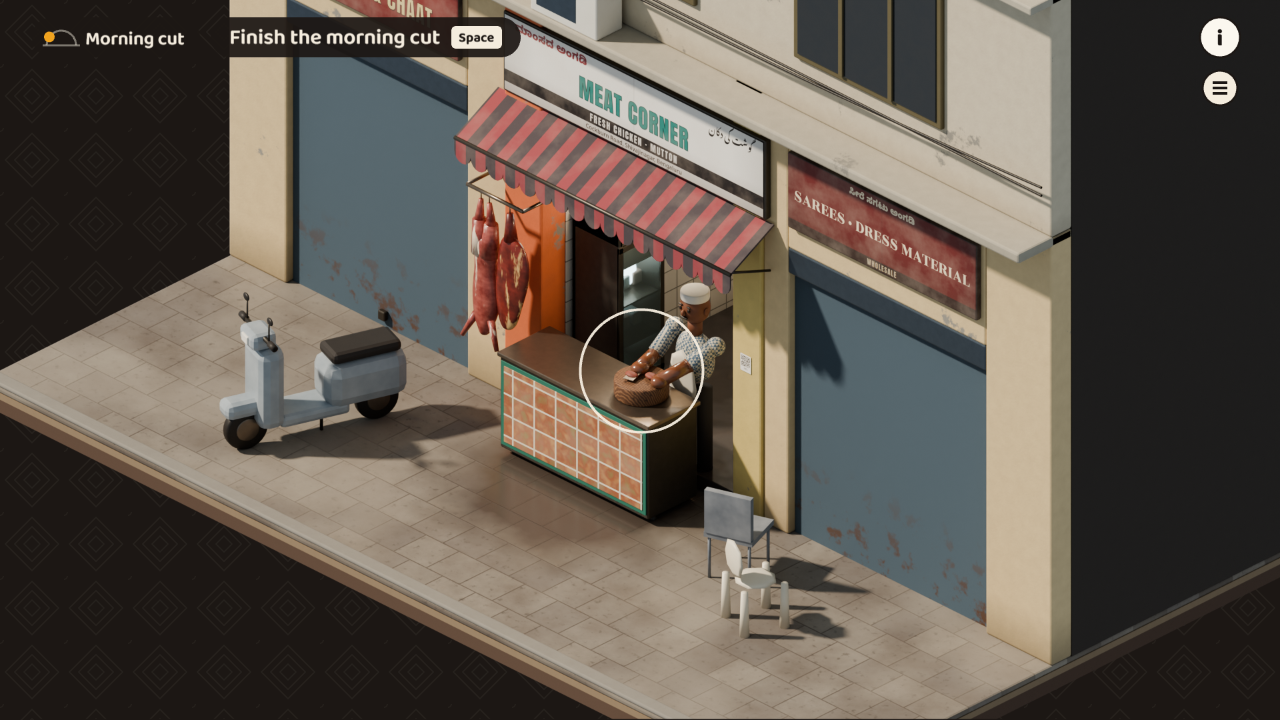
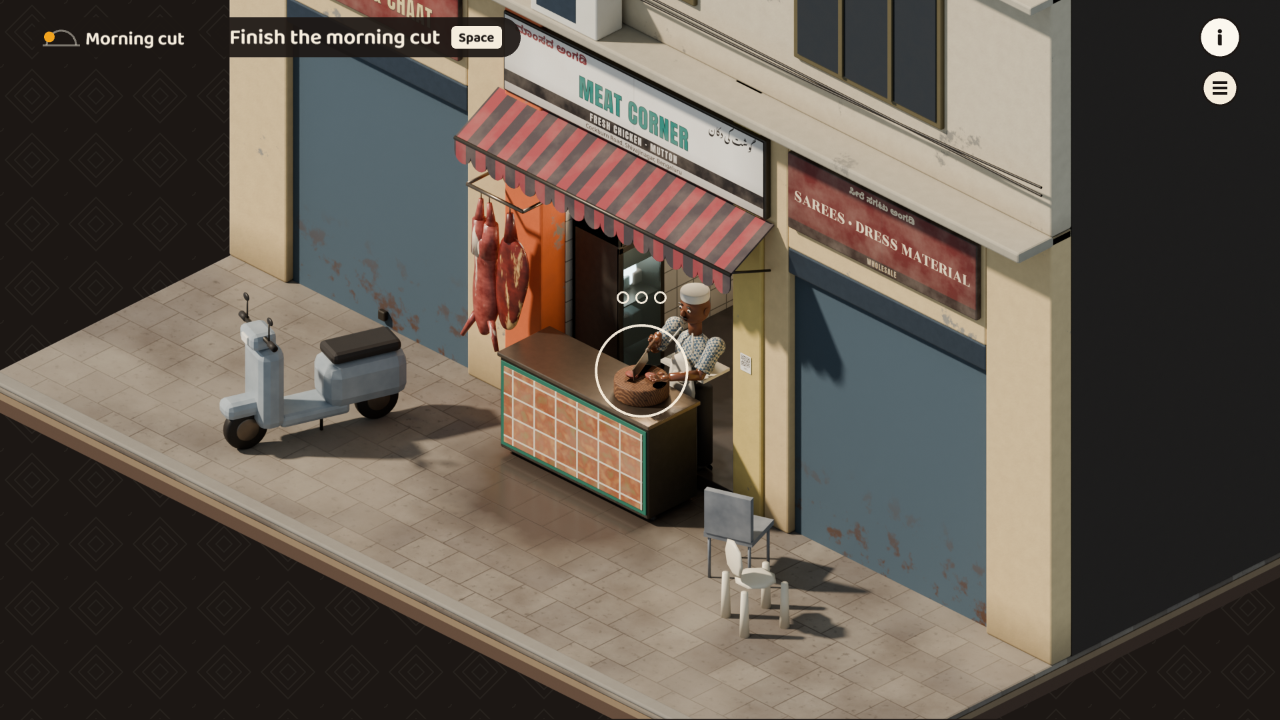
08: full playthrough (13 beats, no console errors), review/full/

Changed region(s): [[0.4375, 0.3972, 0.5625, 0.6111]]

diff --git a/review/full/timing.md b/review/full/timing.md
@@ -4,16 +4,18 @@ Made by `node tools/shoot.mjs full` (generic driver: Space, then → held 0.9 s,
 
 | Beat | Tag at start | Seconds |
 |---|---|---|
-| 01-run1-s01 | — | 3.9 |
-| 02-run1-s02 | −₹5 | 14.5 |
+| 01-run1-s01 | — | 5.2 |
+| 02-run1-s02 | −₹5 | 14.3 |
 | 03-run1-s01 | −₹5 | 1.3 |
-| 04-run2-s01 | — | 4.0 |
-| 05-run2-s02 | −₹5 | 10.8 |
-| 06-run2-s03 | −₹5 | 5.3 |
-| 07-run2-s04 | +₹[__] | 5.3 |
-| 08-run2-s05 | +₹[__] | 7.8 |
-| 09-run2-s06 | +₹[__] | 2.6 |
-| 10-run2-s07 | +₹[__] | 2.6 |
-| 11-run2-end | +₹[__] | 0.0 |
+| 04-run1-map | −₹5 | 12.4 |
+| 05-run2-s01 | — | 5.2 |
+| 06-run2-s02 | −₹5 | 12.9 |
+| 07-run2-s03 | −₹5 | 9.1 |
+| 08-run2-s04 | +₹[__] | 13.1 |
+| 09-run2-s05 | +₹[__] | 9.1 |
+| 10-run2-s06 | +₹[__] | 7.8 |
+| 11-run2-s07 | +₹[__] | 6.6 |
+| 12-run2-map | +₹[__] | 9.6 |
+| 13-run2-end | +₹[__] | 0.0 |
 
-Run 1: 19.8 s · whole game: 107.1 s
+Run 1: 33.2 s · whole game: 162.4 s
